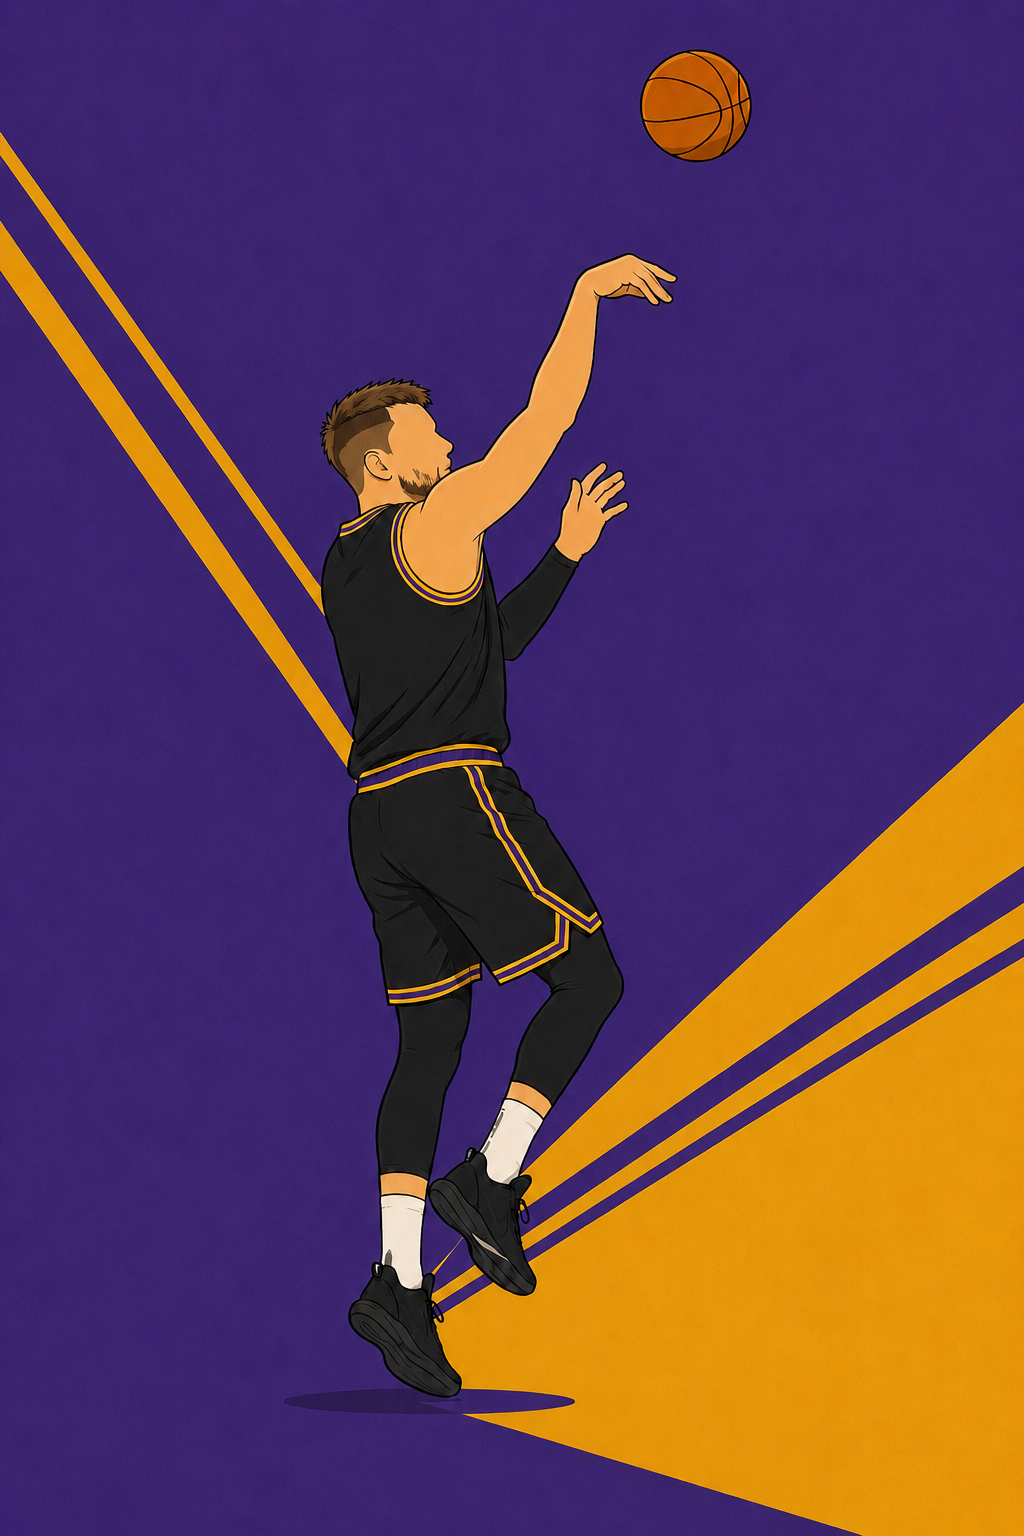
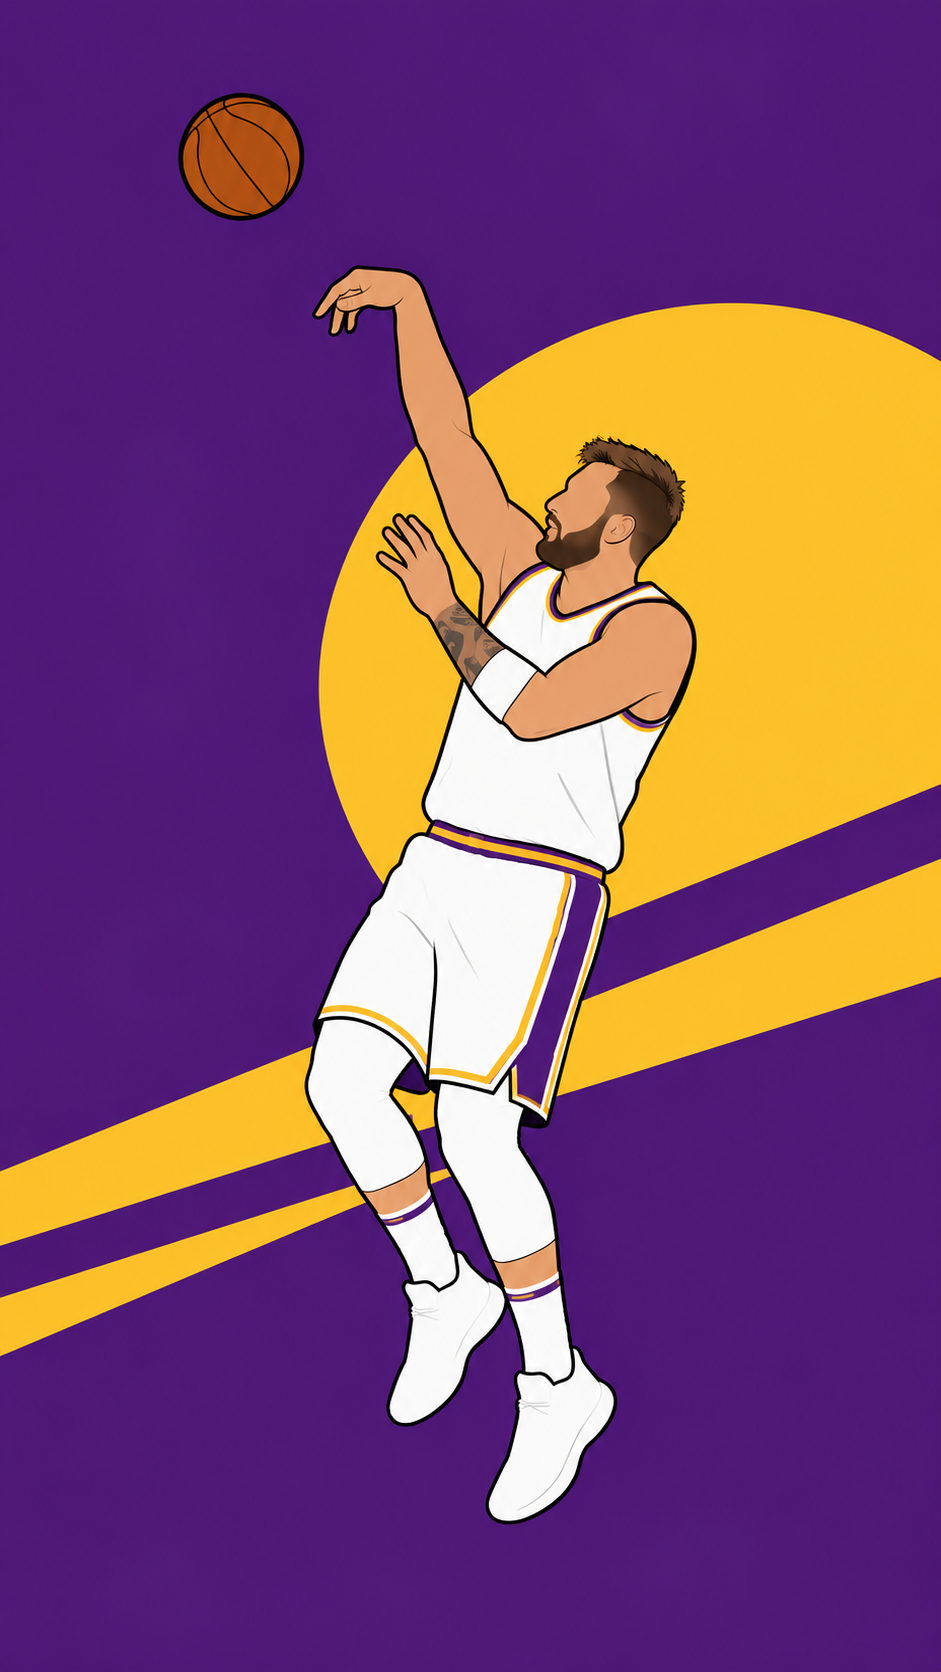
Import final NBA card artwork and enable ten players

diff --git a/index.html b/index.html
@@ -3771,7 +3771,7 @@ const CARD_ART=new Set([
   "david-robinson",  // David Robinson (96 SAS '90s)
   "dirk-nowitzki",  // Dirk Nowitzki (98 DAL '00s)
   "dwyane-wade",  // Dwyane Wade (97 MIA '00s)
-  // "elgin-baylor",  // Elgin Baylor (96 LAL '60s)
+  "elgin-baylor",  // Elgin Baylor (96 LAL '60s)
   "giannis-antetokounmpo-mia",  // Giannis Antetokounmpo (97 MIA '20s)
   "giannis-antetokounmpo-mil",  // Giannis Antetokounmpo (97 MIL '20s)
   "hakeem-olajuwon",  // Hakeem Olajuwon (99 HOU '90s)
@@ -3800,7 +3800,7 @@ const CARD_ART=new Set([
   // "moses-malone-hou",  // Moses Malone (97 HOU '80s)
   "moses-malone-phi",  // Moses Malone (96 PHI '80s)
   "nikola-jokic",  // Nikola Jokic (98 DEN '20s)
-  // "oscar-robertson",  // Oscar Robertson (97 MIL '60s)
+  "oscar-robertson",  // Oscar Robertson (97 MIL '60s)
   "scottie-pippen",  // Scottie Pippen (97 CHI '90s)
   "shai-gilgeous-alexander",  // Shai Gilgeous-Alexander (98 OKC '20s)
   "shaquille-oneal-lal",  // Shaquille O'Neal (98 LAL '00s)
@@ -3814,7 +3814,7 @@ const CARD_ART=new Set([
   "wilt-chamberlain-lal",  // Wilt Chamberlain (96 LAL '70s)
   // "wilt-chamberlain-phi",  // Wilt Chamberlain (98 PHI '60s)
   /* --- ELITE (53) --- */
-  // "allen-iverson-den",  // Allen Iverson (92 DEN '00s)
+  "allen-iverson-den",  // Allen Iverson (92 DEN '00s)
   "anthony-davis-lal",  // Anthony Davis (94 LAL '20s)
   // "anthony-davis-nop",  // Anthony Davis (94 NOP '20s)
   // "bob-pettit",  // Bob Pettit (94 ATL '50s)
@@ -3827,7 +3827,7 @@ const CARD_ART=new Set([
   // "demarcus-cousins",  // DeMarcus Cousins (92 SAC '10s)
   "derrick-rose",  // Derrick Rose (95 CHI '10s)
   "devin-booker",  // Devin Booker (93 PHX '20s)
-  // "dominique-wilkins",  // Dominique Wilkins (95 ATL '80s)
+  "dominique-wilkins",  // Dominique Wilkins (95 ATL '80s)
   "donovan-mitchell",  // Donovan Mitchell (93 CLE '20s)
   "dwight-howard-orl",  // Dwight Howard (93 ORL '00s)
   // "elvin-hayes",  // Elvin Hayes (92 WAS '70s)
@@ -3838,7 +3838,7 @@ const CARD_ART=new Set([
   "ja-morant-mem",  // Ja Morant (92 MEM '20s)
   "james-harden-hou",  // James Harden (95 HOU '10s)
   "james-worthy",  // James Worthy (95 LAL '80s)
-  // "jason-kidd-bkn",  // Jason Kidd (95 BKN '00s)
+  "jason-kidd-bkn",  // Jason Kidd (95 BKN '00s)
   // "jason-kidd-phx",  // Jason Kidd (93 PHX '90s)
   "jaylen-brown",  // Jaylen Brown (95 BOS '20s)
   "jayson-tatum",  // Jayson Tatum (95 BOS '20s)
@@ -3848,7 +3848,7 @@ const CARD_ART=new Set([
   // "kawhi-leonard-lac",  // Kawhi Leonard (93 LAC '20s)
   // "kawhi-leonard-tor",  // Kawhi Leonard (95 TOR '10s)
   // "kevin-durant-hou",  // Kevin Durant (94 HOU '20s)
-  // "kevin-mchale",  // Kevin McHale (92 BOS '80s)
+  "kevin-mchale",  // Kevin McHale (92 BOS '80s)
   // "kyrie-irving-cle",  // Kyrie Irving (94 CLE '10s)
   "kyrie-irving-dal",  // Kyrie Irving (92 DAL '20s)
   "patrick-ewing",  // Patrick Ewing (95 NYK '90s)
@@ -3857,7 +3857,7 @@ const CARD_ART=new Set([
   // "ray-allen-bos",  // Ray Allen (94 BOS '00s)
   // "ray-allen-okc",  // Ray Allen (93 OKC '00s)
   "reggie-miller",  // Reggie Miller (93 IND '90s)
-  // "rick-barry",  // Rick Barry (93 GSW '70s)
+  "rick-barry",  // Rick Barry (93 GSW '70s)
   "russell-westbrook",  // Russell Westbrook (95 OKC '10s)
   // "shaquille-oneal-mia",  // Shaquille O'Neal (95 MIA '00s)
   // "tracy-mcgrady-hou",  // Tracy McGrady (94 HOU '00s)
@@ -3893,7 +3893,7 @@ const CARD_ART=new Set([
   // "carlos-boozer",  // Carlos Boozer (86 UTA '00s)
   // "chauncey-billups",  // Chauncey Billups (87 DET '00s)
   // "chet-holmgren",  // Chet Holmgren (87 OKC '20s)
-  // "chris-bosh-mia",  // Chris Bosh (90 MIA '10s)
+  "chris-bosh-mia",  // Chris Bosh (90 MIA '10s)
   // "chris-bosh-tor",  // Chris Bosh (88 TOR '00s)
   // "chris-mullin",  // Chris Mullin (88 GSW '90s)
   // "chris-webber",  // Chris Webber (91 SAC '00s)
@@ -3943,7 +3943,7 @@ const CARD_ART=new Set([
   // "jimmy-butler-chi",  // Jimmy Butler (90 CHI '10s)
   // "joakim-noah",  // Joakim Noah (87 CHI '10s)
   // "joe-dumars",  // Joe Dumars (86 DET '80s)
-  // "joe-johnson",  // Joe Johnson (88 ATL '00s)
+  "joe-johnson",  // Joe Johnson (88 ATL '00s)
   // "john-wall",  // John Wall (86 WAS '10s)
   // "jrue-holiday",  // Jrue Holiday (87 MIL '20s)
   // "julius-randle",  // Julius Randle (86 MIN '20s)
@@ -3952,7 +3952,7 @@ const CARD_ART=new Set([
   // "kevin-johnson",  // Kevin Johnson (88 PHX '90s)
   // "keyonte-george",  // Keyonte George (87 UTA '20s)
   // "khris-middleton",  // Khris Middleton (85 MIL '20s)
-  // "klay-thompson",  // Klay Thompson (89 GSW '10s)
+  "klay-thompson",  // Klay Thompson (89 GSW '10s)
   // "kon-knueppel",  // Kon Knueppel (86 CHA '20s)
   // "kristaps-porzingis",  // Kristaps Porzingis (87 NYK '20s)
   // "kyle-lowry",  // Kyle Lowry (85 TOR '10s)
